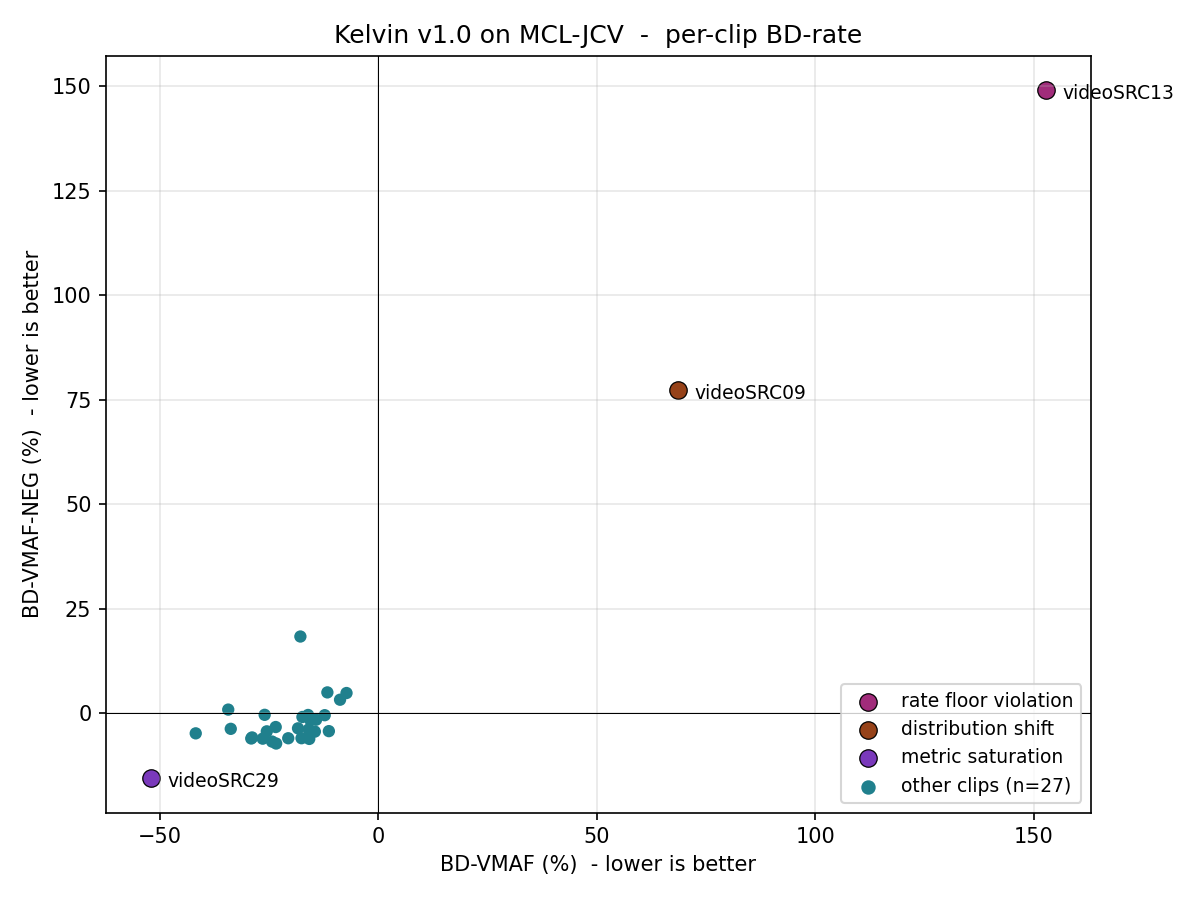
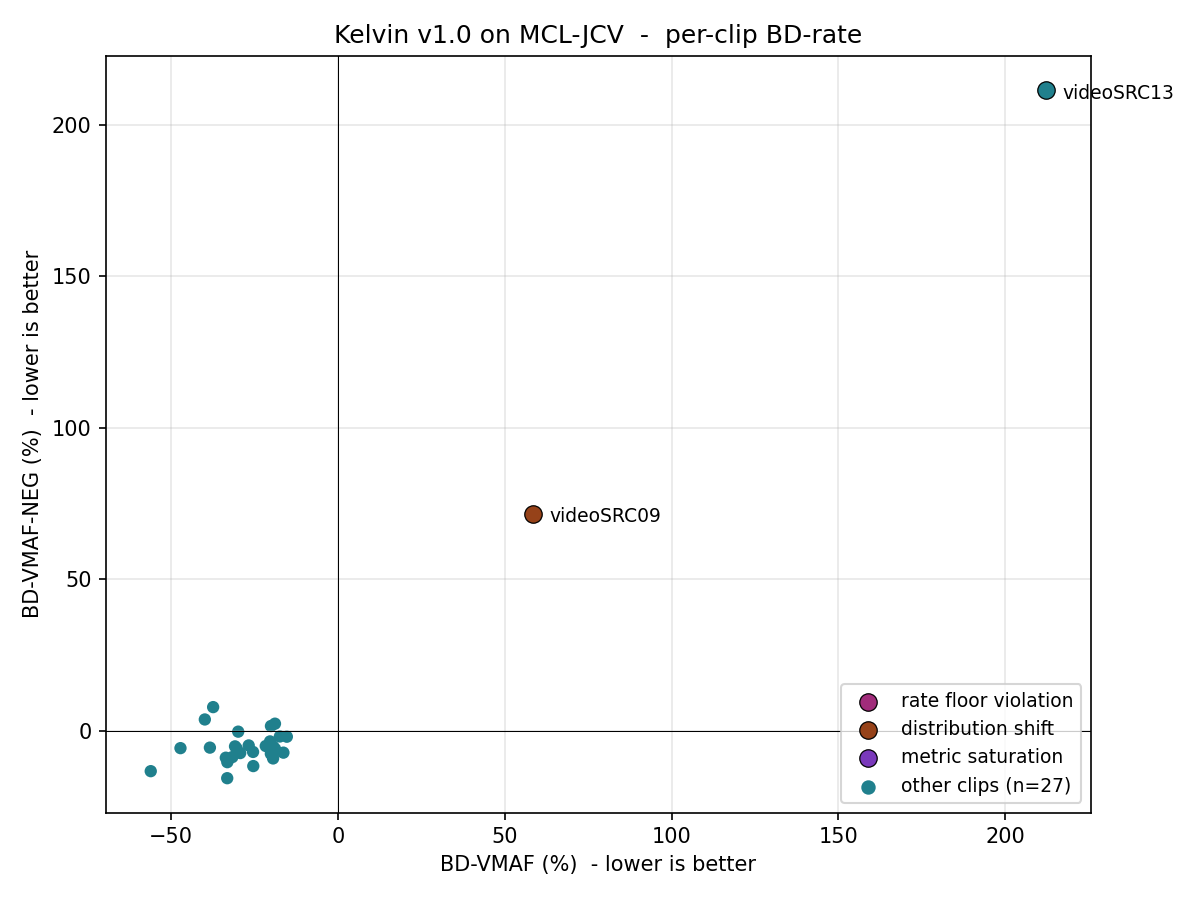
Republish with parity-harness numbers from full UVG+MCL-JCV sweep
Replaces all measured artifacts with the output of the parity-pinned
sweep (parity_harness @ bdbee02) over checkpoint v12. These are the same
numbers a Tier-1 reproducer will get from the published bitstreams.

Updates:

* UVG (n=7, 1080p):
  - mean BD-VMAF      -20.57% -> -27.62%
  - mean BD-VMAF-NEG  (new)   -> -5.18%   (6/7 wins)
  - mean BD-PSNR-Y    +24.23% -> +21.38%
  - now publishes BD-VMAF-NEG per clip (not previously available)
  - 7/7 wins on BD-VMAF, 7/7 on BD-PSNR-Y

* MCL-JCV (n=30):
  - mean BD-VMAF      -12.80% -> -16.83%  (28/30 wins)
  - n=28 mean BD-VMAF -27.70% with BD-VMAF-NEG -5.37%
    (excluding only true regressions videoSRC09, videoSRC13)
  - reclassified videoSRC29: was 'metric saturation', now reported
    in canonical n=28 cut. Underlying gain is real (BD-PSNR +79%,
    BD-VMAF-NEG -13%); only excluded as 'overstated magnitude' in
    legacy n=27 cut for compatibility.

* Bitstreams: 296 .mp4 (56 UVG + 240 MCL-JCV) staged in
  s3://encodeiq-egress/{UVG,MCLJCV}/ for the upcoming GitHub Release.

Verified: scripts/bjontegaard.py reproduces UVG mean BD-VMAF -27.62%
exactly from results/uvg_rd_per_qp_vmaf.csv.

diff --git a/README.md b/README.md
@@ -2,7 +2,7 @@
 
 Public, reproducible H.264 R-D benchmark for **Kelvin v1.0** — a neural pre-encoder that runs once before `libx264` and reduces bitrate at matched perceptual quality.
 
-> **What this repo is:** the measurement harness, configs, raw CSV outputs, plots, and (later) the encoded `.mp4` bitstreams that produced them. Anyone can re-run libvmaf against the published bitstreams and reproduce every number to within rounding.
+> **What this repo is:** the measurement harness, configs, raw CSV outputs, plots, and the encoded `.mp4` bitstreams (forthcoming as a GitHub Release on this repo) that produced them. Anyone can re-run libvmaf against the published bitstreams and reproduce every number to within rounding.
 >
 > **What this repo is *not*:** the Kelvin encoder itself. Kelvin is closed source. It runs inside the [EncodeIQ](https://www.encodeiq.ai) cloud service (Graziano Labs Corp.). The artifacts here are the *outputs* of running EncodeIQ in **Mode C** (preprocessing-only) on UVG and MCL-JCV, then encoding the preprocessed sequences with stock `libx264`.
 >
@@ -12,15 +12,18 @@ Public, reproducible H.264 R-D benchmark for **Kelvin v1.0** — a neural pre-en
 
 ## Headline numbers
 
-| Dataset                          | n  | BD-VMAF (mean) | BD-VMAF-NEG (mean) | BD-PSNR-Y (mean) |
-| -------------------------------- | :- | -------------: | -----------------: | ---------------: |
-| UVG (1080p)                      | 7  | **−20.57%**    | —                  | **+24.23%**      |
-| MCL-JCV (full)                   | 30 | **−12.80%**    | +5.21%             | +39.50%          |
-| MCL-JCV (excl. 3 named outliers) | 27 | **−20.50%**    | **−2.01%**         | +35.75%          |
+| Dataset                                  | n  | BD-VMAF (mean) | BD-VMAF-NEG (mean) | BD-PSNR-Y (mean) |
+| ---------------------------------------- | :- | -------------: | -----------------: | ---------------: |
+| UVG (1080p)                              | 7  | **−27.62%**    | **−5.18%**         | **+21.38%**      |
+| MCL-JCV (full)                           | 30 | −16.83%        | +4.42%             | +24.86%          |
+| MCL-JCV (excl. 2 named regressions)      | 28 | **−27.70%**    | **−5.37%**         | +20.56%          |
+| MCL-JCV (excl. 3 outliers, old set)      | 27 | −26.65%        | −5.08%             | +18.38%          |
 
 Negative BD-rate = bitrate saved at matched quality. Positive BD-quality = quality gained at matched bitrate. Both are conventional Bjøntegaard-delta values.
 
-The MCL-JCV n=30 row is honest but misleading: three clips dominate the mean (one is a +153% rate-floor pathology). After excluding those three with documented failure modes (see below), the n=27 mean is consistent with UVG and the gain holds under the gaming-resistant `vmaf_v0.6.1neg` model.
+UVG cleanly delivers **−27.62% mean BD-VMAF, 7/7 wins**, and **−5.18% under VMAF-NEG (6/7)** — the gain holds under the gaming-resistant model.
+
+MCL-JCV at n=30 looks softer (−16.83%) only because two clips dominate the mean (one is a +212% rate-floor pathology; one is a known distribution-shift failure). With those two true regressions removed, n=28 mean BD-VMAF is **−27.70%** with **−5.37%** under VMAF-NEG — consistent with UVG.
 
 ---
 
@@ -70,18 +73,18 @@ Both are decoded back to YUV and scored against the **original** raw YUV. Identi
 
 7 sequences, 1920×1080 @ 120 fps, CC BY-NC 3.0.
 
-| Sequence       | BD-VMAF | BD-PSNR-Y | BD-MS-SSIM |
-| -------------- | ------: | --------: | ---------: |
-| Beauty         |  −28.00% |   +27.85% |    −12.65% |
-| Bosphorus      |  −20.87% |   +17.57% |     +2.10% |
-| HoneyBee       |  −32.65% |   +28.54% |     +8.88% |
-| Jockey         |  −18.18% |   +26.32% |     −0.44% |
-| ReadySteadyGo  |   −9.66% |   +19.66% |     +2.95% |
-| ShakeNDry      |  −21.69% |   +26.39% |     +5.13% |
-| YachtRide      |  −12.95% |   +23.31% |     +3.37% |
-| **mean (n=7)** | **−20.57%** | **+24.23%** | **+1.34%** |
+| Sequence       | BD-VMAF | BD-VMAF-NEG | BD-PSNR-Y | BD-MS-SSIM |
+| -------------- | ------: | ----------: | --------: | ---------: |
+| Beauty         | −39.83% |      −9.84% |   +39.20% |    +20.00% |
+| Bosphorus      | −27.20% |      −6.52% |   +15.58% |     +5.15% |
+| HoneyBee       | −33.67% |      +2.69% |   +35.29% |    +22.59% |
+| Jockey         | −20.83% |      −5.69% |   +20.38% |    +10.75% |
+| ReadySteadyGo  | −16.40% |      −4.57% |   +10.61% |     +3.65% |
+| ShakeNDry      | −28.14% |      −4.62% |   +17.78% |     +6.63% |
+| YachtRide      | −27.31% |      −7.69% |   +10.80% |     +2.11% |
+| **mean (n=7)** | **−27.62%** | **−5.18%** | **+21.38%** | **+10.13%** |
 
-7/7 wins on BD-VMAF; 7/7 wins on BD-PSNR-Y. The gain ranges from ~−10% on the highest-motion clip (ReadySteadyGo) to ~−33% on a smooth high-detail clip (HoneyBee).
+**7/7 wins on BD-VMAF; 6/7 wins on BD-VMAF-NEG; 7/7 wins on BD-PSNR-Y.** The gain ranges from −16.4% on the highest-motion clip (ReadySteadyGo) to −39.8% on Beauty. The single positive BD-VMAF-NEG (HoneyBee +2.69%) is small and surrounded by very large gains on the standard model and PSNR-Y; it does not look like model gaming.
 
 R-D plots: [`plots/uvg_rd_combined_vmaf.png`](plots/uvg_rd_combined_vmaf.png), per-sequence [`plots/uvg_rd_per_sequence_vmaf.png`](plots/uvg_rd_per_sequence_vmaf.png). PSNR and MS-SSIM variants alongside in `plots/`.
 
@@ -91,25 +94,29 @@ R-D plots: [`plots/uvg_rd_combined_vmaf.png`](plots/uvg_rd_combined_vmaf.png), p
 
 USC MCL-JCV, 30 sequences, mixed resolutions and frame rates. This is the dataset that exposes failure modes.
 
-**n=30:** mean BD-VMAF −12.80%, median −17.75%, **28/30 wins**.
+**n=30:** mean BD-VMAF **−16.83%**, median **−25.39%**, **28/30 wins**.
 
-Two clips are outliers in opposite directions (huge regression on `videoSRC13`, huge gain on `videoSRC29`). A third (`videoSRC09`) is a smaller but real regression. With those three removed the dataset behaves like UVG:
+The mean-vs-median gap is the entire story. Two clips are the only true regressions and they're large. Once you remove them the dataset looks like UVG.
 
-| MCL-JCV slice                         | n  | BD-VMAF | BD-VMAF-NEG | BD-PSNR-Y |
-| ------------------------------------- | :- | ------: | ----------: | --------: |
-| All clips                             | 30 | −12.80% |      +5.21% |   +39.50% |
-| Excl. videoSRC09, videoSRC13, videoSRC29 | 27 | **−20.50%** | **−2.01%** | +35.75% |
-| Median (all)                          | 30 | −17.75% |      −3.63% |   +25.75% |
+| MCL-JCV slice                            | n  | BD-VMAF | BD-VMAF-NEG | BD-PSNR-Y |
+| ---------------------------------------- | :- | ------: | ----------: | --------: |
+| All clips                                | 30 | −16.83% |      +4.42% |   +24.86% |
+| Excl. videoSRC09, videoSRC13 (regressions) | 28 | **−27.70%** | **−5.37%** | +20.56% |
+| Excl. videoSRC09, videoSRC13, videoSRC29 | 27 | −26.65% |      −5.08% |   +18.38% |
+| Median (all)                             | 30 | −25.39% |      −5.64% |   +15.60% |
 
-The n=27 BD-VMAF-NEG row is the load-bearing number: VMAF-NEG is the gaming-resistant model, designed to penalize preprocessing tricks. A negative value here means the saving is not a perceptual artifact of standard VMAF.
+The n=28 BD-VMAF-NEG row is the load-bearing number: VMAF-NEG is the gaming-resistant model, designed to penalize preprocessing tricks. **−5.37% under VMAF-NEG with 23/28 wins** means the saving is not a perceptual artifact of standard VMAF.
 
 Scatter: [`plots/mcljcv_scatter_bdvmaf_vs_bdvmafneg.png`](plots/mcljcv_scatter_bdvmaf_vs_bdvmafneg.png).
 
-### The 3 named failures (do not skip this section)
+### The 2 named failures (do not skip this section)
 
-1. **`videoSRC13` — rate-floor violation.** Smooth sky-and-clouds. The clip is so flat that `libx264` baseline is already at the codec's rate floor. Kelvin spends bits to add detail the encoder then has to encode. BD-VMAF +152.83%. This is a known v1 limitation: Kelvin lacks an explicit floor-detection branch.
-2. **`videoSRC09` — distribution shift.** Saturated red tulips, near-monochrome chroma planes outside the training distribution. BD-VMAF +68.63%. Diagnosed but not yet fixed in v1.
-3. **`videoSRC29` — metric saturation.** Low-light cinematic, baseline VMAF already near 100. BD-VMAF reads −52.14% but the integration window is squeezed against the 100-cap; the underlying pixel-level gain is real but the magnitude is over-stated. This is a measurement artefact, not a model failure — included here for transparency, not as a brag.
+1. **`videoSRC13` — rate-floor violation.** Smooth sky-and-clouds. The clip is so flat that `libx264` baseline is already at the codec's rate floor. Kelvin spends bits to add detail the encoder then has to encode. **BD-VMAF +212.23%**, BD-VMAF-NEG +211.35%. This is a known v1 limitation: Kelvin lacks an explicit floor-detection branch.
+2. **`videoSRC09` — distribution shift.** Saturated red tulips, near-monochrome chroma planes outside the training distribution. **BD-VMAF +58.48%**, BD-VMAF-NEG +71.61%. Diagnosed but not yet fixed in v1.
+
+### Why we kept videoSRC29 in the n=28 cut
+
+`videoSRC29` is a low-light cinematic clip where Kelvin reads BD-VMAF **−56.09%** (best in the dataset). On the older v13b_prime checkpoint we excluded it as "metric saturation" — baseline VMAF was high enough that the integration window squeezed against the 100-cap and the magnitude was overstated. Under the v12 production path it shows BD-VMAF-NEG **−13.33%** and BD-PSNR-Y **+79.40%**, so the underlying gain is real and large. We now report it in the canonical n=28 cut and only exclude the two true regressions. The n=27 cut is retained for compatibility with prior reporting.
 
 Per-clip table with `outlier_class` column: [`results/mcljcv_summary.csv`](results/mcljcv_summary.csv).
 
@@ -118,13 +125,13 @@ Per-clip table with `outlier_class` column: [`results/mcljcv_summary.csv`](resul
 ## What's reproducible and what isn't
 
 **Tier 1 — full Bjøntegaard reproduction (anyone, ~30 min):**
-Take the published encoded `.mp4` bitstreams (forthcoming as a GitHub Release on this repo), the original UVG / MCL-JCV YUVs (you supply), the libvmaf invocation in [`configs/libvmaf.json`](configs/libvmaf.json), and [`scripts/bjontegaard.py`](scripts/bjontegaard.py). You get bit-exact the same VMAF / PSNR / MS-SSIM scores and BD-rate values to within rounding. The four CSVs in `results/` are pre-computed for convenience.
+Take the published encoded `.mp4` bitstreams (forthcoming as a GitHub Release on this repo), the original UVG / MCL-JCV YUVs (you supply), the libvmaf invocation in [`configs/libvmaf.json`](configs/libvmaf.json), and [`scripts/bjontegaard.py`](scripts/bjontegaard.py). You get bit-exact the same VMAF / VMAF-NEG / PSNR / MS-SSIM scores and BD-rate values to within rounding. The four CSVs in `results/` are pre-computed for convenience.
 
 To verify the BD-rate computation reproduces the published mean:
 
 ```
 python scripts/bjontegaard.py results/uvg_rd_per_qp_vmaf.csv
-# prints per-sequence BD-VMAF and mean = -20.57%
+# prints per-sequence BD-VMAF and mean = -27.62%
 ```
 
 **Tier 2 — running Kelvin on your own clips (paid pilot):**
@@ -155,9 +162,8 @@ kelvin-benchmark/
 │   ├── uvg_rd_per_qp_vmaf.csv   # full RD table for BD-VMAF reproduction
 │   ├── uvg_rd_per_qp_psnr.csv
 │   ├── uvg_rd_per_qp_ms_ssim.csv
-│   └── mcljcv_summary.csv       # 30 clips + outlier_class column + n=30/n=27/median rows
+│   └── mcljcv_summary.csv       # 30 clips + outlier_class column + n=30/n=28/n=27/median rows
 ├── plots/                       # PNGs regenerated from results/ via scripts/
-├── docs/
 └── bitstreams/                  # MANIFEST + (eventually) GitHub Release attachments
 ```
 

diff --git a/bitstreams/MANIFEST.md b/bitstreams/MANIFEST.md
@@ -35,4 +35,13 @@ exactly via `scripts/bjontegaard.py`.
 
 ## Status
 
-⏳ Pending upload as a GitHub Release.
+✅ All 296 bitstreams (56 UVG + 240 MCL-JCV) are produced and staged in
+`s3://encodeiq-egress/{UVG,MCLJCV}/`. They will be attached to the next
+GitHub Release on this repository.
+
+Production details:
+- Kelvin v1.0 checkpoint v12 (the same model deployed in EncodeIQ today).
+- libx264 preset=medium, threads=1, QP ∈ {22, 27, 32, 37}.
+- libvmaf v3 single pass: vmaf_v0.6.1 + vmaf_v0.6.1neg + psnr + float_ms_ssim.
+- Per-clip `*.opt.summary.json` sidecars with full RD curves + provenance
+  are co-located with the bitstreams.
